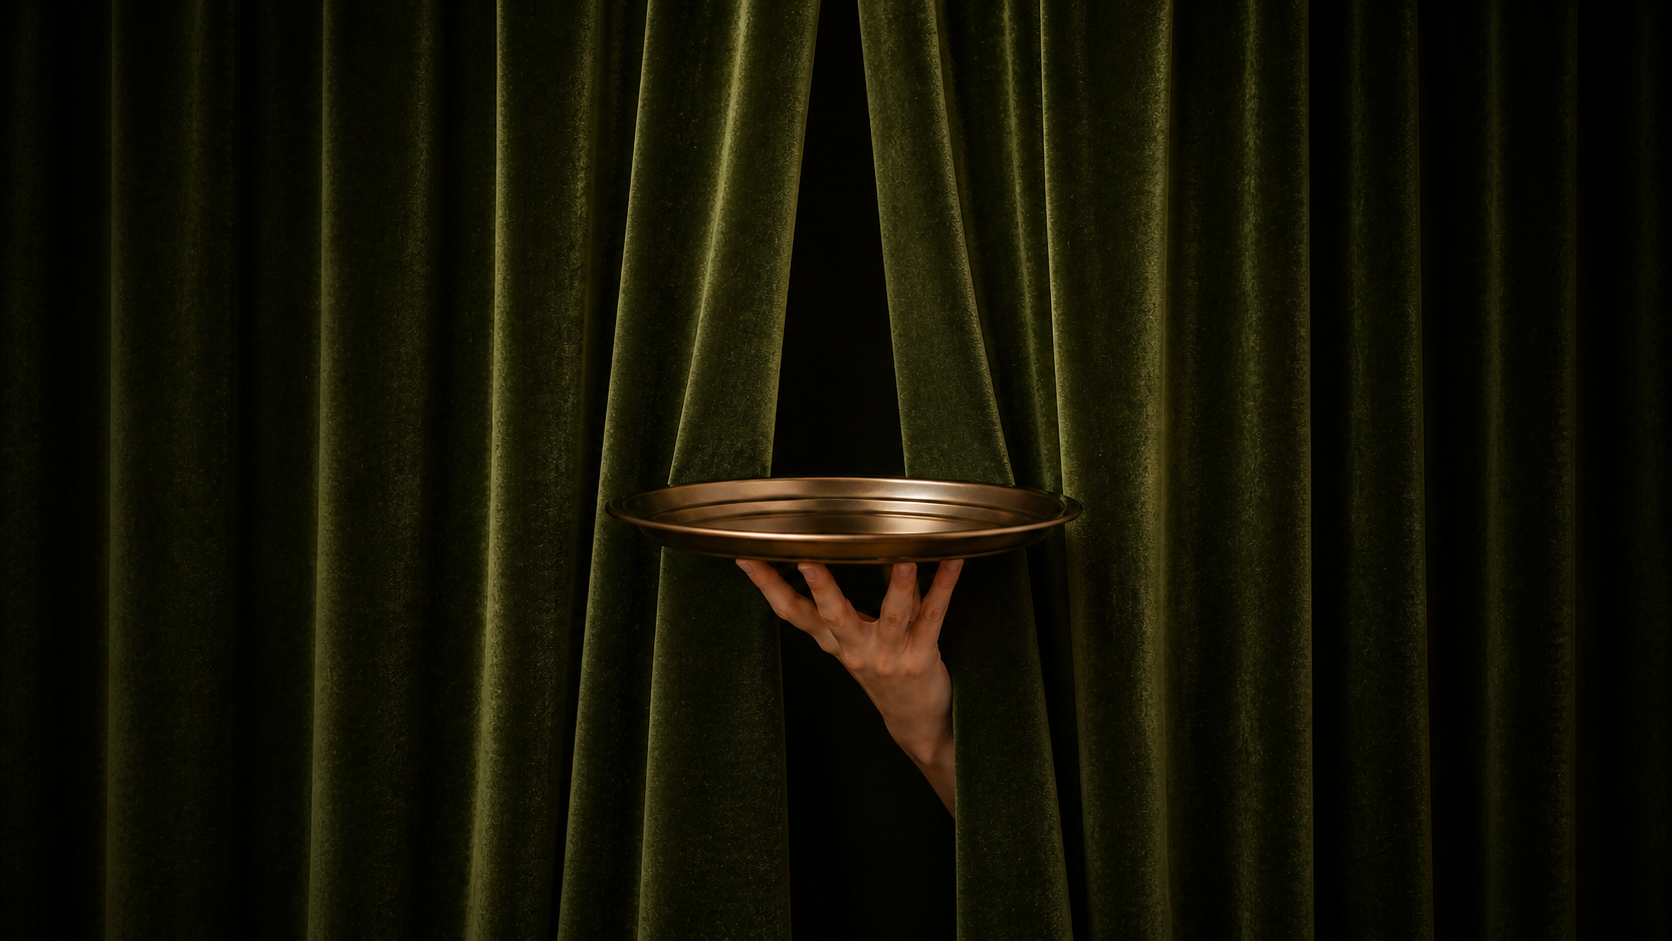
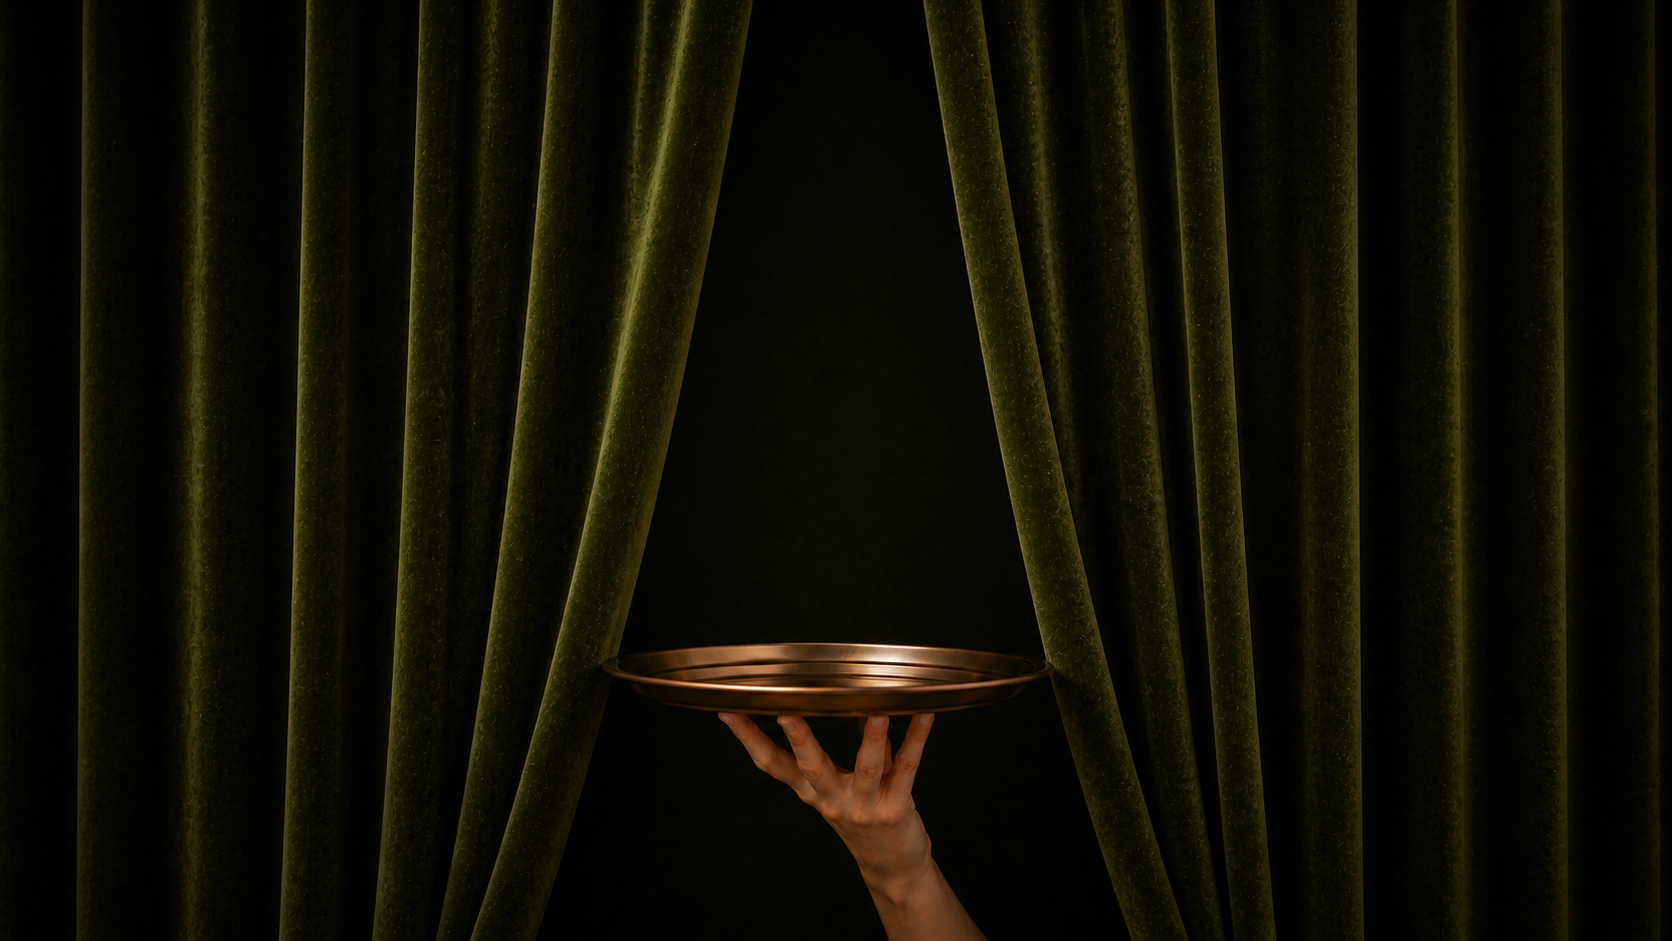
hero

diff --git a/sinfoniaparty/app/page.tsx b/sinfoniaparty/app/page.tsx
@@ -4,7 +4,7 @@ import { useRef, useState, useEffect } from "react";
 import gsap from "gsap";
 import { ScrollTrigger } from "gsap/ScrollTrigger";
 import { useGSAP } from "@gsap/react";
-import { amsterdam } from "@/lib/fonts";
+import { purgatory } from "@/lib/fonts";
 import Entrance from "@/components/Entrance";
 
 gsap.registerPlugin(useGSAP, ScrollTrigger);
@@ -138,14 +138,68 @@ export default function Home() {
     <>
       {isLoading && <Entrance onComplete={() => setIsLoading(false)} />}
       <div ref={container} className={`min-h-screen ${isLoading ? "opacity-0" : "opacity-100"} transition-opacity duration-1000`}>
-      {/* 1 & 2. Opening & Hero Section */}
-      <section className="section-container">
-        <div className="hero-content content-wrapper">
-          <h2 className="subheading mb-4">Trân trọng kính mời</h2>
-          <h1 className={`${amsterdam.className} heading-xl mb-8 lowercase`}>The Sinfonia</h1>
-          <p className="text-lg md:text-xl font-light max-w-2xl mx-auto">
-            Nơi hội ngộ của sự sang trọng và di sản ngành cưới Việt Nam.
+      {/* 1 & 2. Hero Section — Full Bleed */}
+      <section className="relative h-screen w-full overflow-hidden bg-black">
+        {/* Background — natural colors, no overlay */}
+        <img
+          src="/assets/hero%20background.png"
+          alt="The Sinfonia"
+          className="absolute inset-0 w-full h-full object-cover"
+          style={{ willChange: 'auto' }}
+        />
+
+        {/* Text block — repositioned to vertical center of viewport */}
+        <div
+          className="absolute left-1/2 z-10 flex flex-col items-center text-center w-full px-6"
+          style={{ top: '45%', transform: 'translate(-50%, -50%)' }}
+        >
+          {/* Subheading — above the title */}
+          <p
+            className="uppercase font-light tracking-[0.5em] text-[9px] md:text-[11px] mb-5"
+            style={{
+              color: 'rgba(243,237,225,0.65)',
+              animation: 'hero-fade-up 0.9s ease-out 0.3s both',
+            }}
+          >
+            a party that never ends
           </p>
+
+          {/* Main Title — Pure fade-up for maximum sharpness */}
+          <h1
+            className={`${purgatory.className} text-[4.5rem] md:text-[7rem] lg:text-[9rem] leading-none lowercase tracking-tight`}
+            style={{
+              color: '#f3ede1',
+              opacity: 0,
+              animation: 'hero-fade-up 1.2s ease-out 0.7s both',
+              transform: 'translateZ(0)',
+              WebkitFontSmoothing: 'antialiased',
+            } as React.CSSProperties}
+          >
+            The Sinfonia
+          </h1>
+        </div>
+
+        {/* Subtle bottom blend into next section */}
+        <div className="absolute bottom-0 left-0 right-0 h-24 bg-gradient-to-t from-black/30 to-transparent pointer-events-none z-10"></div>
+
+        {/* Scroll Indicator — Minimalist Mouse Icon */}
+        <div 
+          className="absolute bottom-10 left-1/2 -translate-x-1/2 z-20 flex flex-col items-center gap-4 animate-fade-in"
+          style={{ animationDelay: '3.5s', animationFillMode: 'both' }}
+        >
+          {/* Elegant Mouse SVG */}
+          <div className="w-5 h-8 border-[1.2px] border-[#f3ede1]/30 rounded-full relative">
+            <div 
+              className="absolute left-1/2 top-2 -translate-x-1/2 w-[1.5px] h-[4px] bg-[#f3ede1]/60 rounded-full animate-wheel-scroll"
+            ></div>
+          </div>
+          
+          <div className="w-[1px] h-10 relative overflow-hidden" style={{ background: 'rgba(243,237,225,0.1)' }}>
+            <div 
+              className="absolute top-0 left-0 w-full h-1/2 animate-scroll-down" 
+              style={{ background: 'linear-gradient(to bottom, transparent, rgba(243,237,225,0.6), transparent)' }}
+            ></div>
+          </div>
         </div>
       </section>
 
@@ -169,7 +223,7 @@ export default function Home() {
                 <h3 className="subheading">Thời gian diễn ra</h3>
                 <div className="text-center space-y-2">
                   <p className="text-xl md:text-2xl font-light tracking-wide italic opacity-80">Thứ Ba & Thứ Tư</p>
-                  <p className={`${amsterdam.className} text-6xl md:text-7xl text-primary lowercase leading-tight py-2`}>
+                  <p className={`${purgatory.className} text-6xl md:text-7xl text-primary lowercase leading-tight py-2`}>
                     02 & 03 Tháng 6
                   </p>
                   <p className="text-base tracking-[0.4em] font-light opacity-40 uppercase">Mùa hạ năm 2026</p>

diff --git a/sinfoniaparty/app/globals.css b/sinfoniaparty/app/globals.css
@@ -7,7 +7,7 @@
   --color-accent: #f3ede1;
   --font-sans: var(--font-montserrat);
   --font-display: var(--font-playfair);
-  --font-brand: var(--font-amsterdam);
+  --font-brand: var(--font-purgatory);
 }
 
 /* Base styles to enforce the vintage feel */
@@ -141,6 +141,50 @@ body::after {
 
 @utility animate-fade-in {
   animation: fade-in 0.5s ease-out forwards;
+}
+
+/* Hero text reveal — pure opacity, no GPU compositing blur */
+@keyframes hero-fade-up {
+  from { opacity: 0; transform: translateY(14px); }
+  to   { opacity: 1; transform: translateY(0); }
+}
+
+/* Handwriting / Write-on reveal — uses mask-image for an ink-on-paper reveal effect */
+@keyframes write-on {
+  0% { 
+    -webkit-mask-size: 0% 100%; 
+    mask-size: 0% 100%;
+    opacity: 0;
+  }
+  5% {
+    opacity: 1;
+  }
+  100% { 
+    -webkit-mask-size: 200% 100%; 
+    mask-size: 200% 100%;
+    opacity: 1;
+  }
+}
+
+@utility animate-write-on {
+  -webkit-mask-image: linear-gradient(to right, black 50%, transparent 50%);
+  mask-image: linear-gradient(to right, black 50%, transparent 50%);
+  -webkit-mask-size: 0% 100%;
+  mask-size: 0% 100%;
+  -webkit-mask-repeat: no-repeat;
+  mask-repeat: no-repeat;
+  animation: write-on 2.5s cubic-bezier(0.25, 0.46, 0.45, 0.94) forwards;
+}
+
+@keyframes wheel-scroll {
+  0% { transform: translate(-50%, 0); opacity: 0; }
+  20% { opacity: 1; }
+  80% { opacity: 1; }
+  100% { transform: translate(-50%, 8px); opacity: 0; }
+}
+
+@utility animate-wheel-scroll {
+  animation: wheel-scroll 2s ease-in-out infinite;
 }
 
 @utility no-scrollbar {

diff --git a/sinfoniaparty/lib/fonts.ts b/sinfoniaparty/lib/fonts.ts
@@ -11,7 +11,7 @@ export const playfair = Playfair_Display({
   subsets: ["latin"],
 });
 
-export const amsterdam = localFont({
-  src: "../public/assets/amsterdam-handwriting/amsterdam.ttf",
-  variable: "--font-amsterdam",
+export const purgatory = localFont({
+  src: "../public/assets/purgatory/Purgatory.ttf",
+  variable: "--font-purgatory",
 });

diff --git a/sinfoniaparty/app/layout.tsx b/sinfoniaparty/app/layout.tsx
@@ -1,5 +1,5 @@
 import type { Metadata } from "next";
-import { montserrat, playfair, amsterdam } from "@/lib/fonts";
+import { montserrat, playfair, purgatory } from "@/lib/fonts";
 import "./globals.css";
 
 export const metadata: Metadata = {
@@ -15,7 +15,7 @@ export default function RootLayout({
   return (
     <html
       lang="en"
-      className={`${montserrat.variable} ${playfair.variable} ${amsterdam.variable} h-full antialiased`}
+      className={`${montserrat.variable} ${playfair.variable} ${purgatory.variable} h-full antialiased`}
     >
       <body className="min-h-full flex flex-col font-sans text-foreground bg-background">
         {/* Cinematic Grain Overlay */}

diff --git a/sinfoniaparty/components/Entrance.tsx b/sinfoniaparty/components/Entrance.tsx
@@ -3,7 +3,7 @@
 import { useEffect, useState, useRef } from "react";
 import gsap from "gsap";
 import Image from "next/image";
-import { amsterdam } from "@/lib/fonts";
+import { purgatory } from "@/lib/fonts";
 
 const IMAGES = [
   "/assets/w7.jpeg",
@@ -315,7 +315,7 @@ export default function Entrance({ onComplete }: { onComplete: () => void }) {
 
       {/* Brand Name */}
       <div className={`absolute bottom-12 left-12 pointer-events-none transition-opacity duration-500 ${isCaptured ? 'opacity-20' : 'opacity-0'}`}>
-        <h1 className="font-brand text-4xl text-primary lowercase">The Sinfonia</h1>
+        <h1 className={`${purgatory.className} font-brand text-4xl text-primary lowercase`}>The Sinfonia</h1>
       </div>
     </div>
   );

diff --git a/sinfoniaparty/PRD.md b/sinfoniaparty/PRD.md
@@ -10,7 +10,7 @@
     *   Background: `#fff8eb` (Antique Cream / Parchment)
     *   Text: Deep Charcoal or the Primary Accent for headers.
 *   **Typography:**
-    *   Display/Headings: **Amsterdam** (Sophisticated Script/Serif for a vintage look)
+    *   Display/Headings: **Armelie** (Sophisticated Script/Serif for a vintage look)
     *   Body/UI: **Montserrat** (Modern Sans-Serif for clarity)
 
 ## 3. Technical Stack
@@ -38,7 +38,7 @@
 - `--color-bg`: `#fff8eb`
 
 ### Typography Implementation
-- `font-display`: 'Amsterdam', serif;
+- `font-display`: 'Armelie', serif;
 - `font-body`: 'Montserrat', sans-serif;
 
 ## 6. Functional Requirements